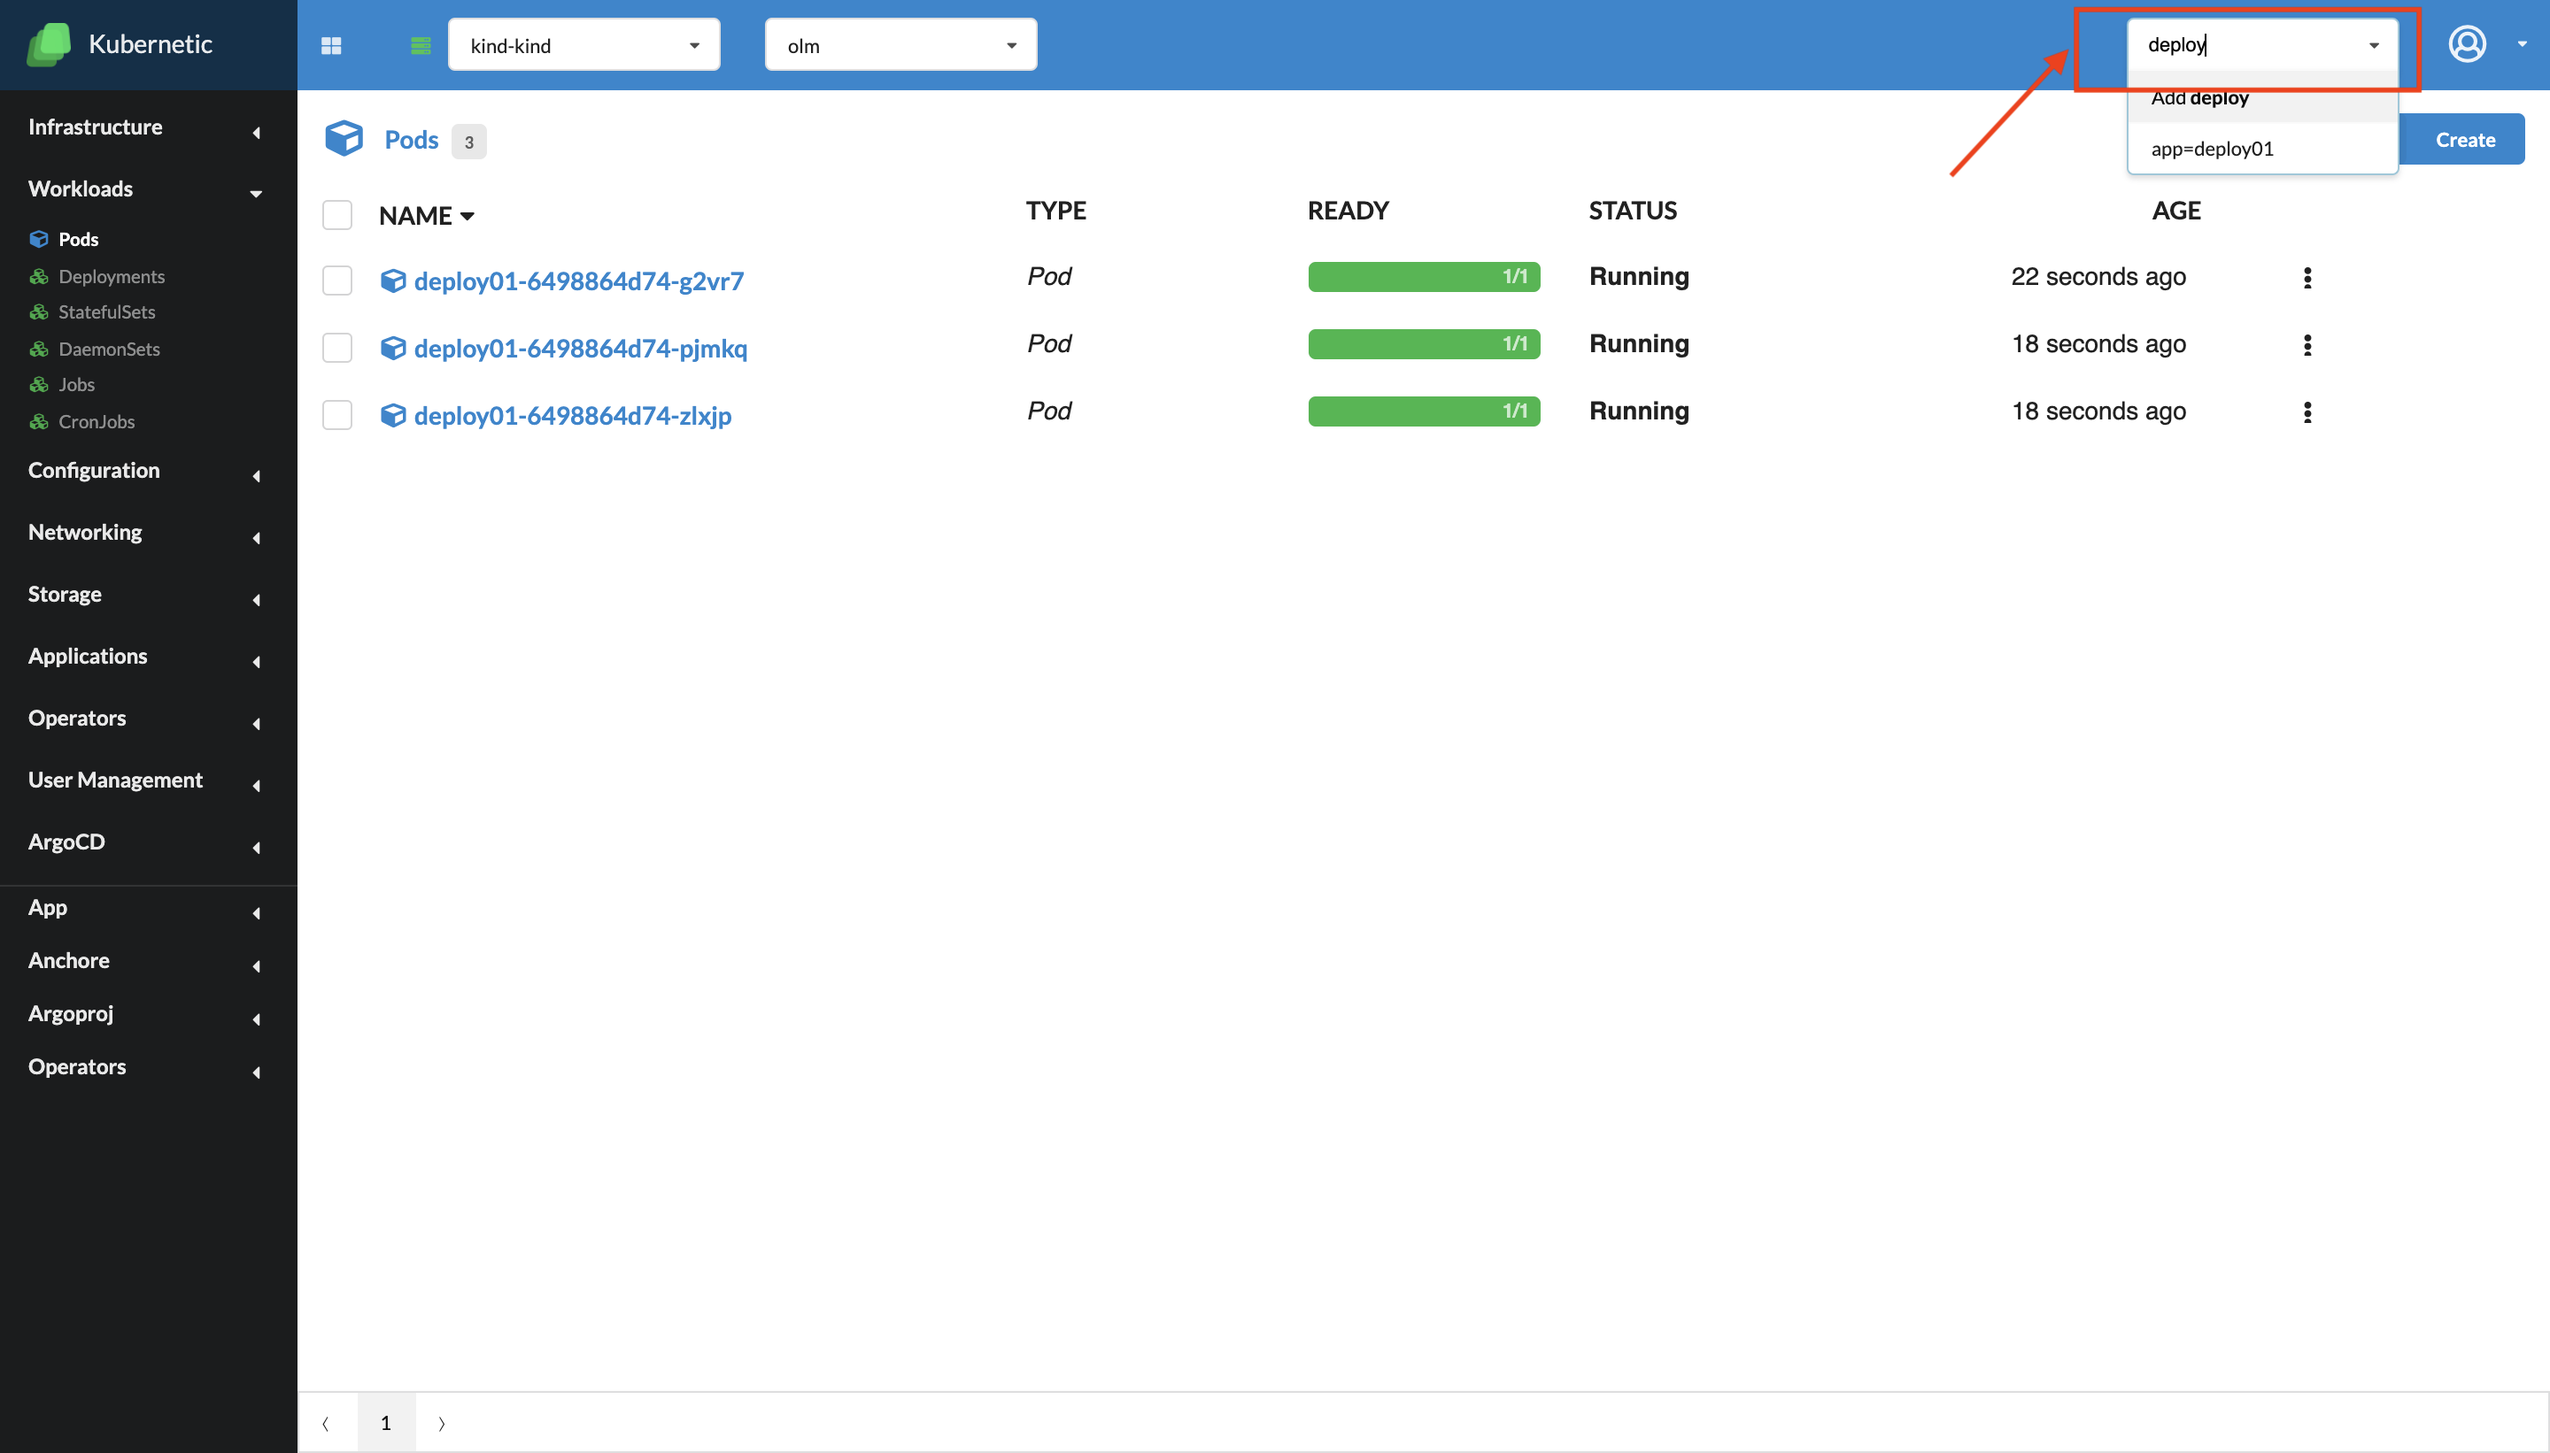
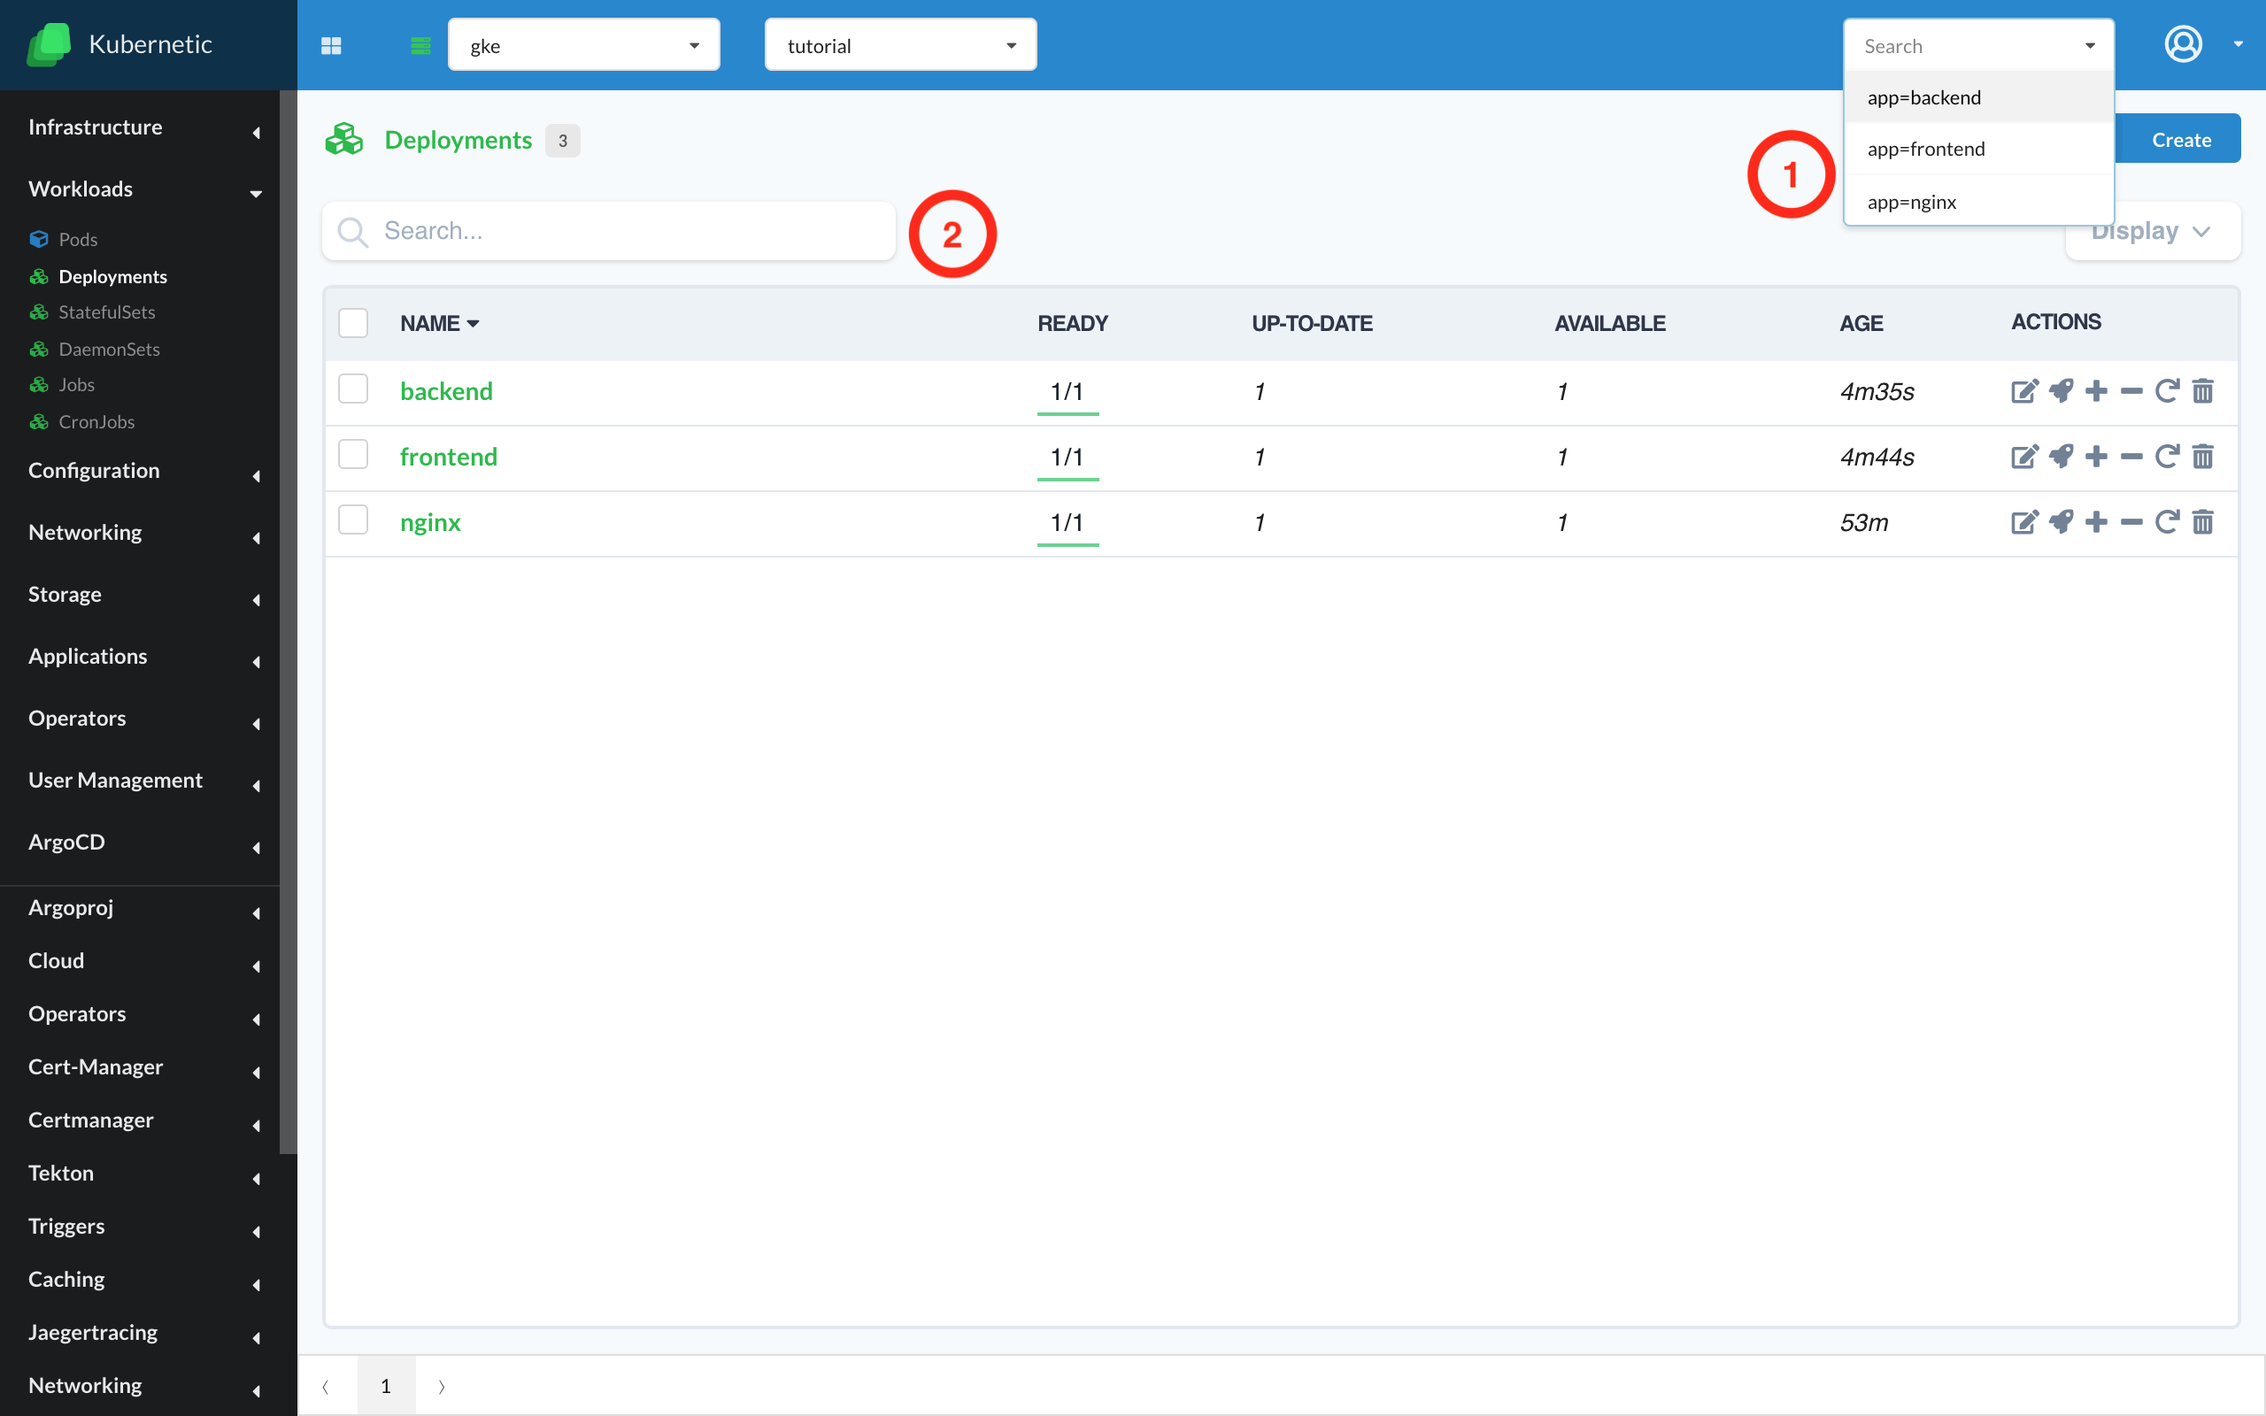
update search docs

diff --git a/docs/.vuepress/config.js b/docs/.vuepress/config.js
@@ -26,7 +26,7 @@ module.exports = {
           collapsable: false,
           children: [
             '/features/crosssections-features/create',
-            '/features/crosssections-features/searchtab',
+            '/features/crosssections-features/search',
             '/features/crosssections-features/filterlogs',
             '/features/crosssections-features/terminal',
             '/features/crosssections-features/portforwarding',

diff --git a/docs/features/crosssections-features/search.md b/docs/features/crosssections-features/search.md
@@ -1,0 +1,16 @@
+# Search
+
+*Since version  v.2.11.0
+
+Kubernetes cluster may contain a lot of objects, in order to be able to navigate better you can use the search functionality.
+
+![Search](../images/search.png)
+
+## Filter By Labels
+
+If you want to see only objects that contain specific labels, you can use the search field on the top right corner (1). Multiple labels can be selected, being combined under a logical "OR" relation. Labels filters are persistent across pages.
+
+## Search By Name
+
+A table may contain too many objects, in order to be able to rapidly find your resource you can search by name on the search field on top of the table itself (2). Search field is reset across pages.
+
